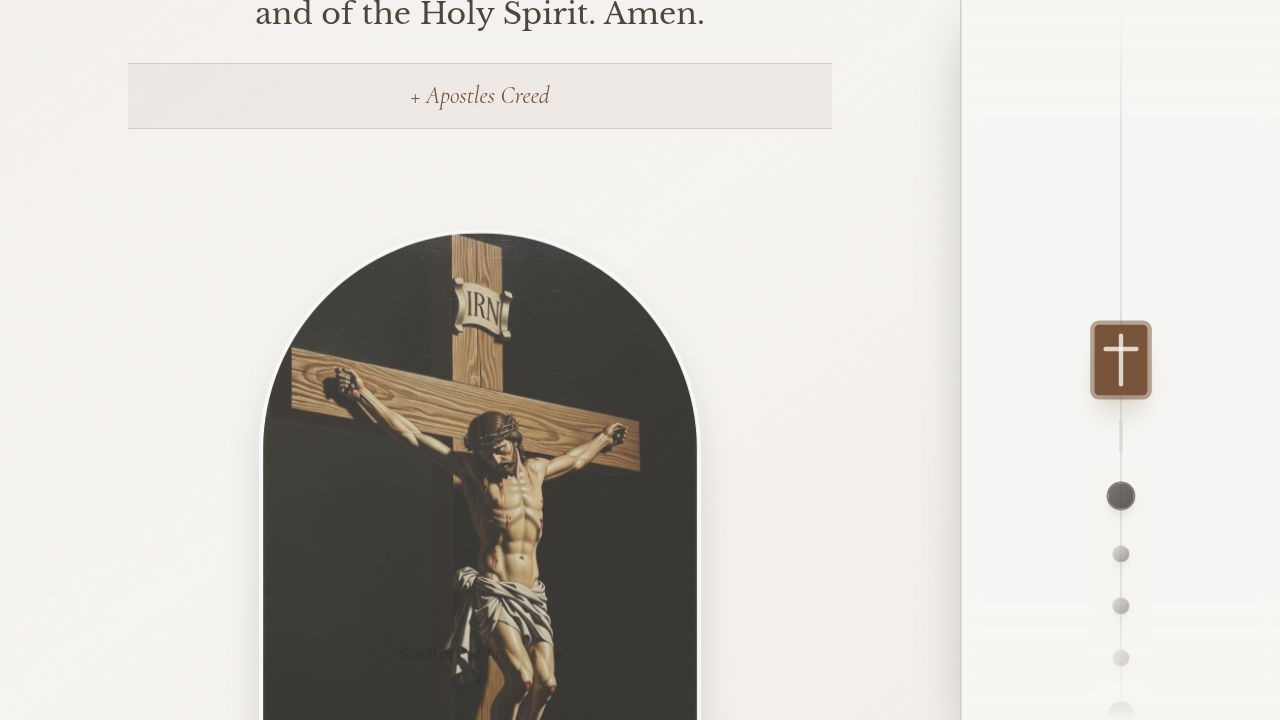
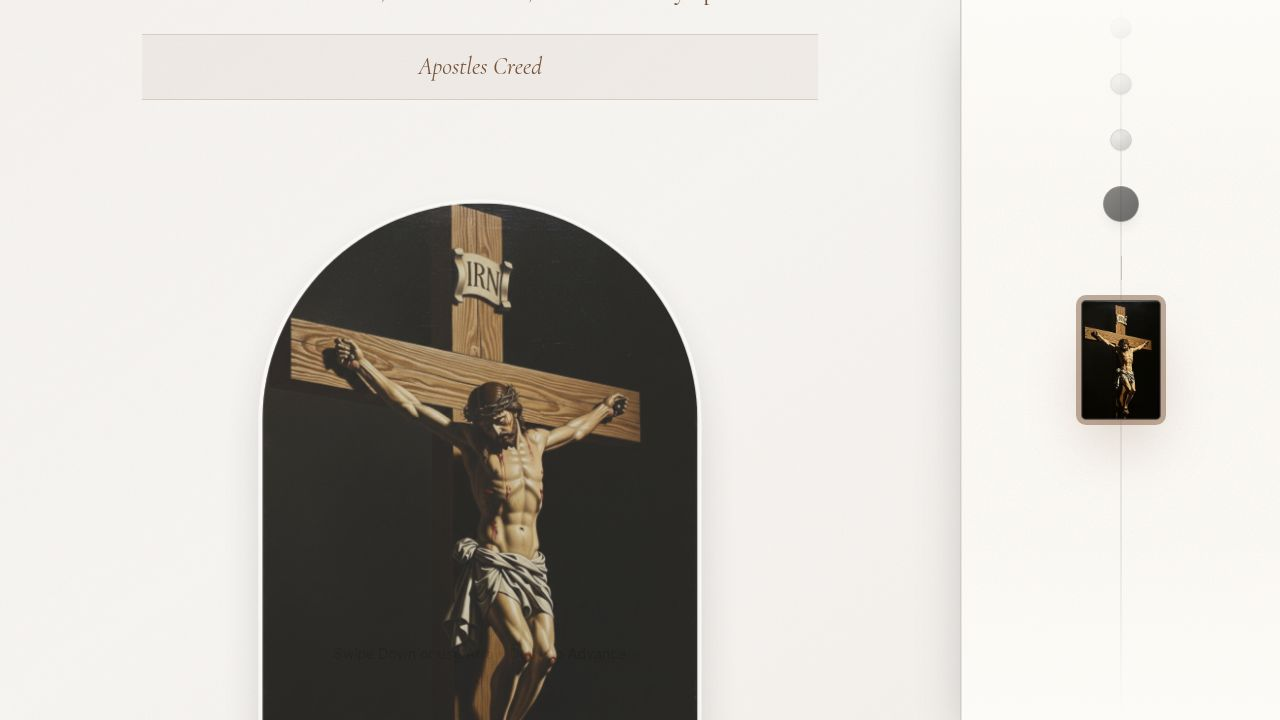
Add final rosary decades with crucifixion and ascension artwork
Implement the fourth and fifth decades of the rosary, adding artwork for the Crucifixion and Ascension, and populating K and M clauses with associated meditations.

Replit-Commit-Author: Agent
Replit-Commit-Session-Id: af25e54b-469e-49d8-bc46-3d9b5c64f207
Replit-Commit-Checkpoint-Type: full_checkpoint
Replit-Commit-Event-Id: fff8ab0c-4cbd-4344-a17d-e3e651ec7d22
Replit-Commit-Screenshot-Url: https://storage.googleapis.com/screenshot-production-us-central1/941b3aaa-a93e-45de-b1a7-b79ef8a0b149/af25e54b-469e-49d8-bc46-3d9b5c64f207/SGjqiqB
Replit-Helium-Checkpoint-Created: true

diff --git a/client/src/lib/rosary-data.ts b/client/src/lib/rosary-data.ts
@@ -2,6 +2,8 @@ import crucifixImg from '@assets/generated_images/wooden_crucifix_in_renaissance
 import medalImg from '@assets/generated_images/virgin_mary_holding_baby_jesus_medal_style.png';
 import annunciationImg from '@assets/generated_images/the_annunciation_to_mary_by_angel_gabriel.png';
 import nativityImg from '@assets/generated_images/the_nativity_scene_jesus_in_manger.png';
+import crucifixionArt from '@assets/generated_images/the_crucifixion_of_jesus_christ.png';
+import ascensionArt from '@assets/generated_images/the_ascension_of_jesus_christ.png';
 
 export type BeadType = 'cross' | 'medal' | 'small' | 'large' | 'chain';
 
@@ -81,6 +83,32 @@ const I_CLAUSES = [
   "who was wrapped in a purple robe, crowned with thorns, and hailed as king by mocking soldiers",
   "who before Caiaphas and Pilate was condemned to a wicked death",
   "who was given the burden of the cross to bear like a criminal to the hill of Golgotha"
+];
+
+const K_CLAUSES = [
+  "nailed to the cross beneath the inscription “This is the King of the Jews”",
+  "who prayed for His murderers, saying “Father, forgive them, for they know not what they do”",
+  "who said to the thief at His right “Amen I say to thee, this day thou shalt be with Me in paradise”",
+  "who said to you, His Mother, “Woman, behold thy son”, and to John “Behold thy Mother”",
+  "who cried out upon the cross: “My God, my God, why hast Thou forsaken Me?”",
+  "who said “I thirst”, and after having tasted the vinegar offered to Him said “It is consummated”",
+  "who at the ninth hour cried out “Father, into Thy hands I commend my spirit”",
+  "who for us, poor sinners, suffered a cruel and painful death. Alleluia.",
+  "whose side was pierced with a spear and from whose Sacred Heart Blood and Water poured out for the forgiveness of our sins",
+  "whose sacred body was taken down from the cross and lovingly received in your arms"
+];
+
+const M_CLAUSES = [
+  "whose body was wrapped in a shroud and laid in the tomb by holy men",
+  "whose tomb was sealed and guarded by Pilate’s soldiers",
+  "whose holy soul descended into Hell to preach the good news and conduct the holy patriarchs to Heaven",
+  "who rose from the dead on the third day, filling you with ineffable joy",
+  "who after His Resurrection appeared frequently to His disciples and friends to strengthen their faith",
+  "who, before you and His apostles, ascended into Heaven on the fortieth day and was seated at the right hand of the Father",
+  "who, as He had promised, sent the Holy Spirit to you and to His apostles on the day of Pentecost",
+  "who was taken up into heaven, body and soul, and assumed to the glory of the Father", // Placeholder for 8
+  "who was crowned by the Father as Queen of Heaven and Earth", // Placeholder for 9
+  "who shall come again in glory to judge the living and the dead" // Placeholder for 10
 ];
 
 const rawBeads: BeadData[] = [
@@ -187,10 +215,30 @@ const rawBeads: BeadData[] = [
     image: nativityImg
   },
   ...generateDecade('I', 'The Passion of the Lord', nativityImg, I_CLAUSES),
-  { id: 'J1', type: 'large', label: 'J1', prayer: { title: 'Doxology', body: 'Glory Be...' }, image: nativityImg },
-  ...generateDecade('K', 'The Fourth Decade', nativityImg),
-  { id: 'L1', type: 'large', label: 'L1', prayer: { title: 'Doxology', body: 'Glory Be...' }, image: nativityImg },
-  ...generateDecade('M', 'The Fifth Decade', nativityImg),
+  {
+    id: 'J1',
+    type: 'large',
+    label: 'J1',
+    prayer: {
+      title: 'Doxology & Transition',
+      body: `Glory be to the Father... ${FATIMA_PRAYER} Our Father...`,
+      subtext: 'The Fourth Decade (His Crucifixion)'
+    },
+    image: crucifixionArt
+  },
+  ...generateDecade('K', 'His Crucifixion', crucifixionArt, K_CLAUSES),
+  {
+    id: 'L1',
+    type: 'large',
+    label: 'L1',
+    prayer: {
+      title: 'Doxology & Transition',
+      body: `Glory be to the Father... ${FATIMA_PRAYER} Our Father...`,
+      subtext: 'The Fifth Decade (His Resurrection)'
+    },
+    image: ascensionArt
+  },
+  ...generateDecade('M', 'His Resurrection', ascensionArt, M_CLAUSES),
   {
     id: 'N1',
     type: 'medal',
